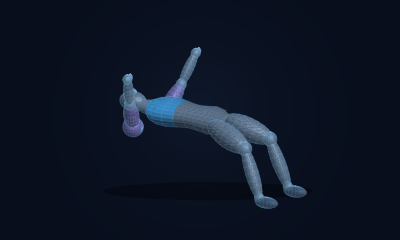
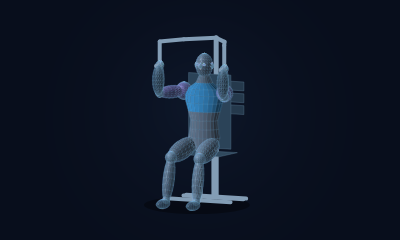
Add a roadmap and retire the merged legacy exercise slug
The milestone numbering invites the reading that M4-M9 are still being
worked through one at a time. They are not: all five test files landed in
a4c0b98 on 2026-09-09, backend-complete but front-end-incomplete, and the
work since has been closing those gaps. ROADMAP.md records that, so the
question does not need archaeology through commit dates to answer.

Also drops the bench_press archetype entry and its artwork. That slug's
exercise row was merged away, and demoFor normalises underscores to
hyphens, so the files were unreferenced.

Changed region(s): [[0.3, 0.1458, 0.78, 0.875]]

diff --git a/resources/js/Support/exerciseApparatusRefinements.js b/resources/js/Support/exerciseApparatusRefinements.js
@@ -2,7 +2,8 @@
 import { motionGeometry as g } from './exerciseMotionRefinements.js';
 const { sides, add, sub, mul, unit, mix, cycle, bend, arm, leg, trunk, feet, sample } = g;
 const tau = Math.PI * 2;
-export const APPARATUS_DEMOS = ['rowing-machine', 'shoulder-press', 'stair-climber', 'skull-crusher', 'mountain-climber', 'seated-calf-raise', 'pull-up', 'swimming', 't-bar-row', 'thoracic-rotation', 'triceps-bench-dip', 'glute-bridge', 'burpee'];
+export const APPARATUS_DEMOS = ['rowing-machine', 'shoulder-press', 'stair-climber', 'skull-crusher', 'mountain-climber', 'seated-calf-raise', 'pull-up', 'swimming', 't-bar-row', 'thoracic-rotation', 'triceps-bench-dip', 'glute-bridge', 'burpee', 'pec-deck', 'toe-touch-crunch'];
+export const FORM_REVIEW_DEMOS = ['t-bar-row', 'pec-deck', 'toe-touch-crunch', 'mountain-climber', 'burpee'];
 
 export function apparatusPose(pose, slug, phase) {
     const t = (1 - Math.cos(tau * phase)) / 2;
@@ -27,6 +28,24 @@ export function apparatusPose(pose, slug, phase) {
     } else if (slug === 'pull-up') {
         trunk(pose, [0, 1.12 + .42 * t, 0]); feet(pose, .14, .02, .285 + .42 * t);
         pose.arms = pose.arms.map((a, i) => arm(a.shoulder, [sides[i] * .31, 2.20, 0], sides[i], [sides[i], -.4, .15]));
+    } else if (slug === 'pec-deck') {
+        trunk(pose, [0, .62, -.04]);
+        pose.legs = sides.map(side => leg([side * .12, .62, -.04], [side * .17, .08, .46], [0, 1, 0]));
+        const sweep = .10 + 2.0 * t;
+        pose.arms = pose.arms.map((a, i) => {
+            const elbow = add(a.shoulder, [sides[i] * .30 * Math.cos(sweep), 0, .30 * Math.sin(sweep)]);
+            return { shoulder: a.shoulder, elbow, wrist: add(elbow, [0, .28, 0]) };
+        });
+    } else if (slug === 'toe-touch-crunch') {
+        pose.horizontal = true; pose.grip = false;
+        const angle = .02 + .35 * t;
+        trunk(pose, [0, .14, .20], [0, Math.sin(angle), -Math.cos(angle)]);
+        pose.legs = sides.map(side => {
+            const hip = add(pose.pelvis, [side * .12, 0, 0]);
+            return { hip, knee: add(hip, [0, .43, 0]), ankle: add(hip, [0, .86, 0]) };
+        });
+        pose.footTips = pose.legs.map(l => add(l.ankle, [0, 0, -.15]));
+        pose.arms = pose.arms.map((a, i) => arm(a.shoulder, add(a.shoulder, [0, .448, .336]), sides[i], [sides[i], 0, 0]));
     } else if (slug === 'seated-calf-raise') {
         trunk(pose, [0, .61, 0]);
         const angle = .20 + .70 * t;
@@ -47,13 +66,16 @@ export function apparatusPose(pose, slug, phase) {
         pose.arms = pose.arms.map((a, i) => arm(a.shoulder, [sides[i] * .34, 1.58, .48], sides[i], [sides[i], -.8, 0]));
     } else if (slug === 'mountain-climber') {
         pose.prone = true; pose.palms = true;
-        const axis = unit([0, .29, -.957]);
-        trunk(pose, [0, .35, .17], axis);
+        const axis = unit([0, .16, -.987]);
+        trunk(pose, [0, .52, .17], axis);
         pose.arms = pose.arms.map((a, i) => arm(a.shoulder, [sides[i] * .25, .065, -.37], sides[i], [sides[i], .2, .7]));
         pose.legs = sides.map((side, i) => {
-            const drive = Math.max(0, Math.sin(tau * phase + i * Math.PI));
-            const hip = add(pose.pelvis, [side * .12, 0, 0]), ankle = [side * .15, .08 + .08 * drive, .96 - 1.05 * drive];
-            return leg(hip, ankle, [0, 1, -1]);
+            const drive = Math.max(0, Math.sin(tau * phase + i * Math.PI)) ** 2;
+            const hip = add(pose.pelvis, [side * .12, 0, 0]), angle = 1.15 - 2.20 * drive;
+            const knee = add(hip, [0, -.43 * Math.cos(angle), .43 * Math.sin(angle)]);
+            const ankleY = .08 + .06 * drive;
+            const ankle = [hip[0], ankleY, knee[2] + Math.sqrt(.43 ** 2 - (knee[1] - ankleY) ** 2)];
+            return { hip, knee, ankle };
         });
     } else if (slug === 'swimming') {
         pose.prone = true; pose.horizontal = true;
@@ -72,7 +94,7 @@ export function apparatusPose(pose, slug, phase) {
         pose.footTips = pose.legs.map(l => add(l.ankle, [0, 0, .15]));
     } else if (slug === 't-bar-row') {
         trunk(pose, [0, .87, -.15], unit([0, .62, .785])); feet(pose, .25);
-        const angle = .36 + .18 * t, pivot = [0, .055, 1.75], grip = add(pivot, [0, 1.75 * Math.sin(angle), -1.75 * Math.cos(angle)]);
+        const angle = .40 + .20 * t, pivot = [0, .055, -1.35], grip = add(pivot, [0, 1.75 * Math.sin(angle), 1.75 * Math.cos(angle)]);
         pose.arms = pose.arms.map((a, i) => arm(a.shoulder, add(grip, [sides[i] * .08, 0, 0]), sides[i], [sides[i], -.3, -1]));
     } else if (slug === 'thoracic-rotation') {
         pose.prone = true; pose.palms = true;
@@ -98,11 +120,11 @@ export function apparatusPose(pose, slug, phase) {
         const [hipY, hipZ, tilt, ankleZ, ankleY, handY, handZ] = sample([
             [0, .94, 0, 0, .05, .08, .90, .05],
             [.12, .40, -.05, 1.25, .05, .08, .065, .55],
-            [.20, .39, -.16, 1.22, -.48, .20, .065, .55],
-            [.28, .346, -.214, 1.245, -1, .08, .065, .55],
-            [.39, .21, -.175, 1.46, -1, .08, .065, .55],
-            [.50, .346, -.214, 1.245, -1, .08, .065, .55],
-            [.57, .39, -.16, 1.22, -.48, .20, .065, .55],
+            [.20, .62, -.16, 1.62, -.48, .20, .065, .55],
+            [.28, .346, -.214, 1.245, -1.035, .08, .065, .55],
+            [.39, .21, -.175, 1.46, -1.025, .08, .065, .55],
+            [.50, .346, -.214, 1.245, -1.035, .08, .065, .55],
+            [.57, .62, -.16, 1.62, -.48, .20, .065, .55],
             [.64, .40, -.05, 1.25, .05, .08, .065, .55],
             [.78, 1.19, 0, 0, .05, .33, 2.22, .07],
             [.89, .80, -.06, .15, .05, .08, 1.15, .24],
@@ -110,7 +132,10 @@ export function apparatusPose(pose, slug, phase) {
         ], phase);
         trunk(pose, [0, hipY, hipZ], [0, Math.cos(tilt), Math.sin(tilt)]);
         feet(pose, .18, ankleZ, ankleY);
-        pose.legs.forEach(l => { l.knee = bend(l.hip, l.ankle, .43, .43, [0, 1, 1]); });
+        pose.legs.forEach(l => {
+            const delta = sub(l.ankle, l.hip);
+            l.knee = bend(l.hip, l.ankle, .43, .43, [0, delta[2], -delta[1]]);
+        });
         pose.arms = pose.arms.map((a, i) => arm(a.shoulder, [sides[i] * .25, handY, handZ], sides[i], [sides[i] * .65, .55, -.6]));
         pose.palms = handY < .12;
     }
@@ -133,7 +158,7 @@ export function apparatusEquipment(pose, slug, phase) {
         line([add(center, [0, 0, -.10]), add(center, [0, 0, .10])], 'grip', 3, '#c4d5e6');
         for (const sign of sides) ball(add(center, [0, 0, sign * .10]), [.065, .065, .03]);
     };
-    if (['glute-bridge', 'thoracic-rotation', 'mountain-climber', 'burpee'].includes(slug)) face([[-.50, -.008, -1.30], [.50, -.008, -1.30], [.50, -.008, 1.30], [-.50, -.008, 1.30]], 'ground', '#101e2c');
+    if (['glute-bridge', 'thoracic-rotation', 'mountain-climber', 'burpee', 'toe-touch-crunch'].includes(slug)) face([[-.50, -.008, -1.30], [.50, -.008, -1.30], [.50, -.008, 1.30], [-.50, -.008, 1.30]], 'ground', '#101e2c');
     if (['shoulder-press', 'skull-crusher'].includes(slug)) pose.arms.forEach(a => dumbbell(a.wrist));
     if (slug === 'skull-crusher') pad(.49, -.75, .38);
     if (slug === 'pull-up') {
@@ -171,6 +196,22 @@ export function apparatusEquipment(pose, slug, phase) {
         }
         face([[-.20, 1.66, .56], [.20, 1.66, .56], [.20, 1.82, .70], [-.20, 1.82, .70]], 'display', '#335676');
     }
+    if (slug === 'pec-deck') {
+        pad(.50, -.30, .10, .24, 'seat');
+        face([[-.24, .55, -.16], [.24, .55, -.16], [.24, 1.30, -.16], [-.24, 1.30, -.16]], 'back-pad', '#2b4358');
+        line([[0, .04, -.30], [0, .60, -.30], [0, 1.65, -.30]], 'frame', 5);
+        line([[-.34, .04, -.30], [.34, .04, -.30]], 'base');
+        pose.arms.forEach(a => {
+            const pivot = [a.shoulder[0], 1.65, a.shoulder[2]], end = [a.elbow[0], 1.65, a.elbow[2]];
+            line([pivot, end, a.elbow], 'swing-arm', 4);
+            ball(add(a.elbow, [0, .13, .035]), [.06, .15, .045], 'forearm-pad', [51, 72, 94]);
+            line([a.wrist, add(a.wrist, [0, 0, .08])], 'grip', 4);
+            line([[0, 1.65, -.30], pivot], 'frame', 4);
+        });
+        for (const y of [.86, .98, 1.10]) {
+            face([[-.20, y, -.52], [.20, y, -.52], [.20, y + .09, -.52], [-.20, y + .09, -.52]], 'weight-stack', '#25394c');
+        }
+    }
     if (slug === 'seated-calf-raise') {
         pad(.50, -.24, .12, .25, 'seat');
         pad(.115, .49, .65, .35, 'toe-platform');
@@ -182,11 +223,11 @@ export function apparatusEquipment(pose, slug, phase) {
         pose.arms.forEach(a => line([add(a.wrist, [0, -.08, 0]), a.wrist], 'handle', 4));
     }
     if (slug === 't-bar-row') {
-        const pivot = [0, .055, 1.75], grip = mix(pose.arms[0].wrist, pose.arms[1].wrist, .5), axis = unit(sub(grip, pivot));
-        line([pivot, add(grip, mul(axis, .10))], 'anchored-bar', 4, '#b7cde1');
+        const pivot = [0, .055, -1.35], grip = mix(pose.arms[0].wrist, pose.arms[1].wrist, .5), axis = unit(sub(grip, pivot));
+        line([pivot, add(grip, mul(axis, .23))], 'anchored-bar', 4, '#b7cde1');
         line(pose.arms.map(a => a.wrist), 'handle', 5);
-        ball(add(grip, mul(axis, -.27)), [.18, .045, .18], 'weight', [63, 84, 109], [[1, 0, 0], axis, [0, -axis[2], axis[1]]]);
-        face([[-.22, .01, 1.56], [.22, .01, 1.56], [.22, .01, 1.92], [-.22, .01, 1.92]], 'anchor');
+        ball(add(grip, mul(axis, .10)), [.18, .045, .18], 'weight', [63, 84, 109], [[1, 0, 0], axis, [0, -axis[2], axis[1]]]);
+        face([[-.22, .01, -1.54], [.22, .01, -1.54], [.22, .01, -1.18], [-.22, .01, -1.18]], 'anchor');
     }
     if (slug === 'swimming') {
         face([[-.65, .39, -1.55], [.65, .39, -1.55], [.65, .39, 1.50], [-.65, .39, 1.50]], 'ground', '#122c40');

diff --git a/resources/js/Support/exerciseArchetypes.js b/resources/js/Support/exerciseArchetypes.js
@@ -53,7 +53,6 @@ const LABELS = {
  */
 export const ARCHETYPES = {
     // ---- Chest ----
-    'bench_press': { motion: 'bench', load: 'barbell' },
     'incline-bench-press': { motion: 'bench', load: 'barbell', variant: 'incline' },
     'decline-bench-press': { motion: 'bench', load: 'barbell', variant: 'decline' },
     'incline-dumbbell-press': { motion: 'bench', load: 'dumbbell', variant: 'incline' },
@@ -203,6 +202,8 @@ export const loadFor = (slug) => ARCHETYPES[slug]?.load ?? null;
 
 /** Coaching line for an archetype-driven exercise. */
 const MOVEMENT_CUES = {
+    'pec-deck': 'sit against the back pad with forearms on the pads; bring your elbows together in front of your chest, then open with control.',
+    'toe-touch-crunch': 'keep legs raised over your hips with feet together and toes pointing toward your head; lift your shoulders to reach upward.',
     'rowing-machine': 'push through the footplates, lean back slightly, then pull the handle; return arms first, then bend your knees.',
     'shoulder-press': 'press the dumbbells overhead with a steady trunk, then lower toward shoulder height.',
     'stair-climber': 'alternate steps on the moving treads and use the rails lightly for balance.',
@@ -211,7 +212,7 @@ const MOVEMENT_CUES = {
     'seated-calf-raise': 'place thighs beneath the pad and toes on the platform; lift and lower your heels with control.',
     'pull-up': 'hold the fixed overhead bar, pull your chin toward bar height, and lower with control.',
     'swimming': 'alternate freestyle arm strokes with a small flutter kick and gentle torso rotation.',
-    't-bar-row': 'hinge at the hips with a steady back, pull the anchored bar toward your trunk, and lower with control.',
+    't-bar-row': 'hinge at the hips with a steady back, straddle the bar with its anchor behind you and pull the handle toward your lower chest, and lower with control.',
     'thoracic-rotation': 'start on hands and knees, place one hand beside your head, and open that elbow while keeping hips steady.',
     'triceps-bench-dip': 'keep palms on the bench and feet grounded; bend your elbows to lower, then press up.',
     'glute-bridge': 'keep shoulders and feet grounded, raise your hips into alignment with your thighs, then lower with control.',

diff --git a/resources/js/Support/exerciseDemos.js b/resources/js/Support/exerciseDemos.js
@@ -1,4 +1,4 @@
-import { APPARATUS_DEMOS } from './exerciseApparatusRefinements.js';
+import { APPARATUS_DEMOS, FORM_REVIEW_DEMOS } from './exerciseApparatusRefinements.js';
 /**
  * Hand-authored two-pose exercise demonstrations.
  *
@@ -105,7 +105,7 @@ export const EXERCISE_DEMOS = {
 export const demoFor = (slug, name = null) => {
     const key = typeof slug === 'string' ? slug.toLowerCase().trim().replaceAll('_', '-').replaceAll(' ', '-') : '';
     // Bump when replacing public assets so returning browsers fetch the new artwork.
-    const artworkVersion = APPARATUS_DEMOS.includes(key) ? 'apparatus-8' : MOTION_DEMOS.includes(key) ? 'motion-7' : FORM_DEMOS.includes(key) ? 'form-6' : CORRECTED_DEMOS.includes(key) ? 'equipment-5' : key === 'incline-treadmill-walk' ? 'treadmill-4' : 'wireframe-3';
+    const artworkVersion = FORM_REVIEW_DEMOS.includes(key) ? 'form-9' : APPARATUS_DEMOS.includes(key) ? 'apparatus-8' : MOTION_DEMOS.includes(key) ? 'motion-7' : FORM_DEMOS.includes(key) ? 'form-6' : CORRECTED_DEMOS.includes(key) ? 'equipment-5' : key === 'incline-treadmill-walk' ? 'treadmill-4' : 'wireframe-3';
 
     const readableName = name ?? key.replaceAll('-', ' ').replace(/^./, (c) => c.toUpperCase());
     const hand = Object.hasOwn(EXERCISE_DEMOS, key) ? EXERCISE_DEMOS[key] : null;

diff --git a/ROADMAP.md b/ROADMAP.md
@@ -1,0 +1,110 @@
+# Roadmap
+
+Where the Hunter System stands, what shipped when, and what is open.
+
+Kept at the repo root beside `README.md`, `AGENTS.md` and `CLAUDE.md` rather
+than in a `docs/` folder, per the project rule against new base directories.
+
+## Milestones
+
+M4–M9 were **not** worked through one at a time. All five milestone test files
+landed together in `a4c0b98` ("Build Hunter System: RPG progression backend and
+dashboard", 2026-09-09), so the milestone numbering describes *scope*, not a
+sequence still in progress.
+
+| Milestone | Scope | Backend | Front end |
+| --- | --- | --- | --- |
+| M4 | XP, levels, rank progression, stat allocation | Done `a4c0b98` | Done |
+| M5 | Live workout, set logging, idempotent completion | Done `a4c0b98` | Completed later — see below |
+| M6 | Daily and weekly missions, rewards, streaks | Done `a4c0b98` | Completed later |
+| M7 | Calendar aggregation, heatmap, agenda | Done `a4c0b98` | **Page did not exist** — built later |
+| M8/M9 | Achievements, dungeons, boss battles, titles | Done `a4c0b98` | Done |
+
+### The pattern worth knowing
+
+Those milestones shipped **backend-complete and front-end-incomplete**, and
+their service tests passed the whole time. The gaps only showed up in a browser:
+
+- **M7** — `CalendarService` was fully built and tested, but
+  `Pages/Calendar/Index.vue` did not exist. The controller rendered a component
+  that was not there, so `/calendar` returned 200 and then died client-side.
+- **M5** — the set-completion endpoint could not be reached from the UI: the
+  root Blade view had no `csrf-token` meta tag, so every "Complete set" threw a
+  `TypeError`. The store also never flipped `is_completed`, pinning the UI to
+  set one, and nothing ever called `workouts.complete`, so XP, streaks and
+  program advancement never ran.
+- **M6** — `WaterLitres` and `Steps` missions were generated but could never
+  progress, because `synchronizeProgress` had no case for either metric.
+
+If a milestone looks done, check that a user can actually reach it.
+
+## Since the milestones
+
+Work that closed those gaps, plus features no milestone covered.
+
+| Area | State |
+| --- | --- |
+| Calendar page | Built: month grid, agenda, year heatmap |
+| Live workout | CSRF, set advance, completion, timed exercises, rest from server config |
+| Mission progress | `WaterLitres`, `ActiveDays`, `TrainingMinutes`, `DistanceKm` wired; `Steps` retired (nothing records steps) |
+| Program editor | Full CRUD, policy, nested validation; system programs copy-to-edit |
+| Mid-mission editing | Add, remove, reorder and resize exercises without losing logged sets |
+| Hydration | `water_logs`, timezone-aware totals, weight-scaled target, card + modal, 7-day trend |
+| Exercise library | 108 exercises, searchable and filterable, card grid with detail modal |
+| Demonstrations | 108 animated GIFs from a movement-archetype renderer |
+| Dashboard | Rank palette E–S, scanline panels, segmented attribute bars |
+| Mobile nav | One `HunterNav` for both layouts; the dashboard drawer was permanently open |
+
+### Seed content
+
+108 exercises across 9 categories, 8 system programs, 14 missions. Every seeder
+is idempotent; `SeedContentTest` fails the build if an active mission uses a
+metric `synchronizeProgress` cannot compute.
+
+### Exercise demonstrations
+
+Six movements have bespoke poses; the rest render from a movement archetype
+(motion + load + variant) in `exerciseArchetypes.js`, with per-exercise
+refinement layers stacked on top:
+
+```
+exerciseDemoScene.js       base mannequin, IK, camera
+  exerciseArchetypes.js    slug -> motion, load, variant
+  exerciseCorrections.js   equipment fixes
+  exerciseFormCorrections.js
+  exerciseMotionRefinements.js
+  exerciseApparatusRefinements.js   machines, benches, bars
+```
+
+Regenerate artwork with:
+
+```bash
+node resources/js/Support/generateExerciseDemos.mjs [slug ...]
+```
+
+`ExerciseDemos.test.mjs` projects every joint of every exercise across all 32
+frames and fails if anything clips the 400x240 frame, so limbs leaving the
+canvas break the build rather than needing to be spotted in a picture.
+
+## Open
+
+Nothing is currently blocking. Candidates, roughly by value:
+
+- **Nutrition** — `calorieTarget` and the macro split on the dashboard are still
+  hard-coded placeholders in `DashboardController::health()`. The only remaining
+  fake numbers in the app.
+- **Step tracking** — the retired "Reach 8,000 steps" mission can come back if a
+  step source is added.
+- **Market** — page exists as a coming-soon placeholder.
+- **Program editing while enrolled** — locked today, because rebuilding
+  structure nulls `workouts.program_day_id` and strands the enrollment. Lifting
+  the lock means repointing scheduled workouts during the rebuild.
+
+## Working on this repo
+
+- Use `C:\php\php.exe`. The `php` on PATH is 8.4.0 and fails the Composer
+  platform check before Laravel boots.
+- `php artisan db:seed` blocks on a production confirmation if `.env` is not
+  loaded — run it from the project root.
+- Tests: `php artisan test --compact` and `node --test tests/Unit/<file>.mjs`
+  (the node runner does not take a directory).
